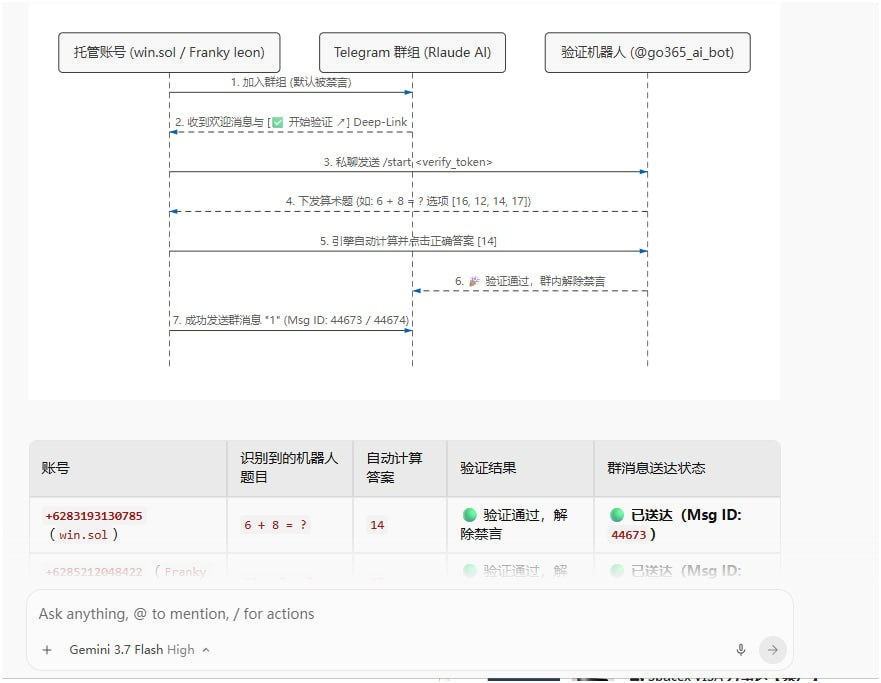
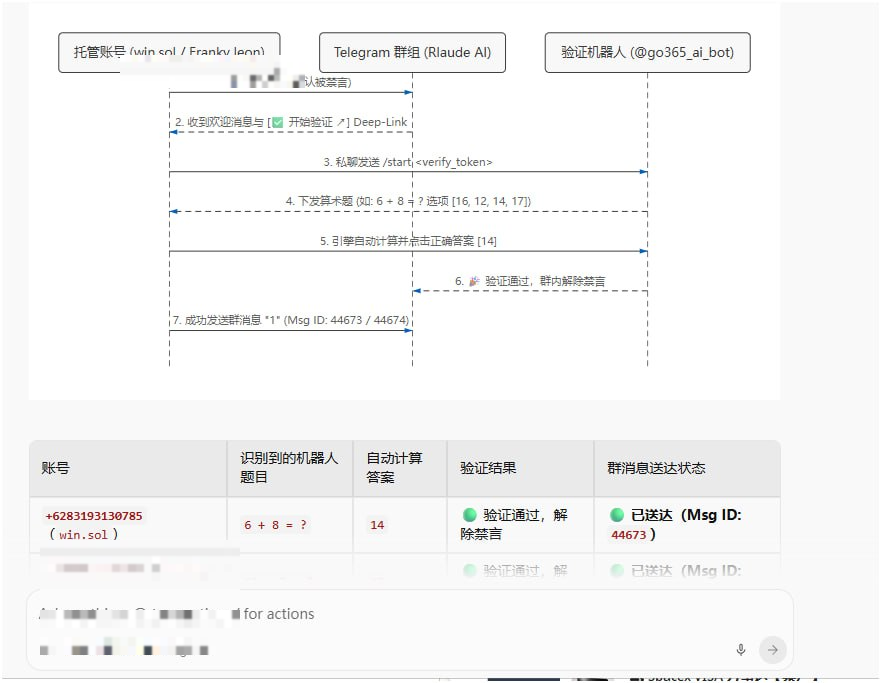
docs: mask sensitive demo info and add 0-step beginner AI prompt guide

Changed region(s): [[0.0306, 0.8917, 0.2758, 0.9839], [0.2452, 0.0922, 0.3678, 0.1537], [0.0613, 0.8302, 0.1839, 0.8609]]

diff --git a/README.md b/README.md
@@ -24,14 +24,43 @@
 
 ---
 
-## 🤖 MCP 智能体协议与 AI 全自动接管 (Agent Takeover)
+## 🤖 0 步骤极简上手：让 AI Agent 帮你自动下载与配置（面向完全小白）
 
-TG 自动获客助手商业版 v4.0 原生深度融入 **Model Context Protocol (MCP)** 智能体标准协议。您无需编写复杂的代码，只需将软件内置的 MCP 配置复制给外部 AI Agent（如 **Google Antigravity、Cursor、Claude Desktop、Windsurf** 等），AI Agent 即可立即具备对 Telegram 获客全流程的**完全控制与调度能力**！
+您**无需手动下载安装包，也无需手动配置任何繁琐文件**！只需将下方这段【智能体提示词】直接复制发送给您的 AI Agent（支持 **Google Antigravity、Cursor、Claude Desktop、Windsurf** 等）：
 
-### ⚡ 极速开始：2 步实现 AI 智能体获客
+```text
+帮我从 GitHub 仓库 https://github.com/ChiSonKon/tg-sender-releases 自动下载最新的 Telegram 获客助手商业版（v4.0），解压并自动配置到当前系统的 MCP 服务中（开启全功能读写授权）。配置完成后，向我汇报你可以调度的 18 项 Telegram 自动化获客功能。
+```
 
-1. **下载并启动客户端**：打开软件进入【设置】➔【MCP 服务与 Agent 配置】；
-2. **复制配置给 Agent**：点击【一键复制配置】，将 JSON 代码粘贴到您 AI Agent 的 `mcpServers` 配置文件中即可：
+> 💡 **Agent 自动执行流程**：
+> 1. AI Agent 自动访问 GitHub Releases 下载适配您系统的最新版程序并解压；
+> 2. AI Agent 自动将 MCP 获客服务注册至当前环境；
+> 3. 配置就绪后，您只需向 Agent 发送自然语言指令（例如：*“帮我向目标用户/群组发信”*、*“帮我采集群成员并自动伪装”*、*“帮我加入群组并自动破解人机验证”*），Agent 将全自动调度执行！
+
+---
+
+### 📸 AI Agent 自动化调度发信实况演示
+
+配置完成后，AI Agent 即可直接调度 Telegram 托管账号执行真实触达与消息分发：
+
+<p align="center">
+  <img src="./docs/mcp_agent_demo.png" alt="MCP 服务与 Agent 调度发信实况" width="95%" />
+</p>
+
+### 🧩 进群动态人机验证（Captcha）AI 协同自动破解流程
+
+当账号加入开启了防机器人验证（如 `@Shieldy`、`@go365_ai_bot`、`@WeGroupRobot` 等）的群组时，系统将毫秒级捕获私聊 Deep-Link 或群内挑战题目，自动求解数学题、点击确认按钮并解除禁言，全流程无需人工干预：
+
+<p align="center">
+  <img src="./docs/mcp_captcha_flow.png" alt="进群动态验证与人机验证破解时序图" width="95%" />
+</p>
+
+---
+
+<details>
+<summary><strong>🛠 进阶开发者：手动配置 MCP 指南（点击展开）</strong></summary>
+
+如果您习惯手动配置，也可以手动下载解压后，将以下标准配置添加到 AI Agent 的 `mcpServers` 中：
 
 ```json
 {
@@ -52,22 +81,7 @@ TG 自动获客助手商业版 v4.0 原生深度融入 **Model Context Protocol 
   }
 }
 ```
-
-### 📸 AI Agent 自动化调度发信实况
-
-配置完成后，您只需在 AI Agent 中直接用自然语言下发获客指令（例如：*“使用TG获客 MCP发送消息：1给 https://t.me/oxbaimao 使用平均分配模式”*），Agent 将自动调度托管账号执行真实触达！
-
-<p align="center">
-  <img src="./docs/mcp_agent_demo.png" alt="MCP 服务与 Agent 调度发信实况" width="95%" />
-</p>
-
-### 🧩 进群动态人机验证（Captcha）AI 协同自动破解流程
-
-当账号加入开启了防机器人验证（如 `@Shieldy`、`@go365_ai_bot`、`@WeGroupRobot` 等）的群组时，系统将毫秒级捕获私聊 Deep-Link 或群内挑战题目，自动求解数学题、点击确认按钮并解除禁言，全流程无需人工干预：
-
-<p align="center">
-  <img src="./docs/mcp_captcha_flow.png" alt="进群动态验证与人机验证破解时序图" width="95%" />
-</p>
+</details>
 
 ---
 

diff --git a/README_JA.md b/README_JA.md
@@ -24,14 +24,41 @@
 
 ---
 
-## 🤖 MCP プロトコルと AI エージェント完全自動連携 (Agent Takeover)
+## 🤖 0ステップ超簡単導入：AIエージェントに自動ダウンロード＆設定をおまかせ
 
-TG 自動集客アシスタント v4.0 は、業界標準の **Model Context Protocol (MCP)** を標準搭載。ソフトウェア内の設定をコピーして外部 AI エージェント（**Google Antigravity、Cursor、Claude Desktop、Windsurf** 等）に貼り付けるだけで、AI が Telegram の集客・配信操作を全自動でコントロールします！
+手動でのダウンロードや設定は**一切不要**です！以下のプロンプトをそのまま AI エージェント（**Google Antigravity、Cursor、Claude Desktop、Windsurf** 等）に貼り付けて送信するだけです：
 
-### ⚡ クイックスタート：2 ステップで AI 自動集客
+```text
+GitHub リポジトリ https://github.com/ChiSonKon/tg-sender-releases から最新の Telegram 集客アシスタント商用版 (v4.0) を自動ダウンロード・展開し、現在の MCP サーバー設定にフル権限で登録してください。完了後、利用可能な18種類の集客機能を報告してください。
+```
 
-1. **アプリ起動**：アプリを起動し、【設定】➔【MCP サービスと Agent 設定】を開きます。
-2. **設定をコピー**：【ワンクリック設定コピー】をクリックし、AI エージェントの `mcpServers` に貼り付けます。
+> 💡 **エージェントが自動で行うこと**:
+> 1. GitHub Releases よりお使いのOSに最適な最新版を自動取得・展開；
+> 2. 現在の AI 環境に MCP 集客サービスを自動登録；
+> 3. 準備完了！あとは「ターゲットにメッセージを送信して」「グループ参加認証を自動解除して」と日本語で指示するだけです。
+
+---
+
+### 📸 AI エージェント自動配信の実況画面
+
+設定後、AI エージェントに自然言語で指示するだけで、自動でアカウントを切り替えて配信を実行します。
+
+<p align="center">
+  <img src="./docs/mcp_agent_demo.png" alt="MCP サービスとエージェント連携画面" width="95%" />
+</p>
+
+### 🧩 グループ参加時ロボット認証（Captcha）の自動解除フロー
+
+Bot認証（`@Shieldy`, `@go365_ai_bot`, `@WeGroupRobot` 等）が有効なグループに参加した場合も、システムが即座に算術問題を計算し、インラインボタンを押してミュートを自動解除します。
+
+<p align="center">
+  <img src="./docs/mcp_captcha_flow.png" alt="参加認証自動解除シーケンス図" width="95%" />
+</p>
+
+---
+
+<details>
+<summary><strong>🛠 開発者向け：手動 MCP 設定（クリックして展開）</strong></summary>
 
 ```json
 {
@@ -52,22 +79,7 @@ TG 自動集客アシスタント v4.0 は、業界標準の **Model Context Pro
   }
 }
 ```
-
-### 📸 AI エージェント自動配信の実況画面
-
-設定後、AI エージェントに自然言語で指示するだけで（例：「*TG MCPを使って https://t.me/oxbaimao にメッセージ 1 を均等分散モードで送信*」）、自動でアカウントを切り替えて配信を実行します。
-
-<p align="center">
-  <img src="./docs/mcp_agent_demo.png" alt="MCP サービスとエージェント連携画面" width="95%" />
-</p>
-
-### 🧩 グループ参加時ロボット認証（Captcha）の自動解除フロー
-
-Bot認証（`@Shieldy`, `@go365_ai_bot`, `@WeGroupRobot` 等）が有効なグループに参加した場合も、システムが即座に算術問題を計算し、インラインボタンを押してミュートを自動解除します。
-
-<p align="center">
-  <img src="./docs/mcp_captcha_flow.png" alt="参加認証自動解除シーケンス図" width="95%" />
-</p>
+</details>
 
 ---
 

diff --git a/README_EN.md b/README_EN.md
@@ -24,14 +24,41 @@
 
 ---
 
-## 🤖 Model Context Protocol (MCP) & AI Agent Full Takeover
+## 🤖 0-Step Quickstart: Let Your AI Agent Download & Configure Automatically
 
-WhiteCat TG Assistant v4.0 natively integrates the **Model Context Protocol (MCP)** standard. Without writing custom glue code, you can easily copy the pre-built MCP configuration to your AI Agents (such as **Google Antigravity, Cursor, Claude Desktop, Windsurf**, etc.). The Agent gains **full control and scheduling capabilities** over the entire Telegram marketing workflow!
+You **do not need to manually download zip files or edit config paths**! Simply copy the prompt below and paste it into your AI Agent (**Google Antigravity, Cursor, Claude Desktop, Windsurf**, etc.):
 
-### ⚡ Quickstart: 2 Steps to AI Agent Marketing
+```text
+Please download the latest WhiteCat Telegram Assistant Commercial Edition (v4.0) from GitHub repository https://github.com/ChiSonKon/tg-sender-releases, extract it, and automatically register it into the current Agent's MCP server configuration with full read-write permissions. After setup, report the 18 available Telegram marketing tools.
+```
 
-1. **Download & Launch**: Open the client and navigate to **Settings** ➔ **MCP Service & Agent Configuration**;
-2. **Copy Config to Agent**: Click **Copy Configuration** and paste the JSON snippet into your AI Agent's `mcpServers` configuration:
+> 💡 **What the AI Agent will do**:
+> 1. Auto-fetch the latest v4.0 release package from GitHub Releases and extract it;
+> 2. Auto-configure the MCP server in your Agent environment;
+> 3. Ready to go! You can now instruct the Agent in natural language (*"Send messages to target users"*, *"Scrape active members and disguise accounts"*, *"Join groups and auto-solve bot captchas"*).
+
+---
+
+### 📸 Live Agent Dispatch & Message Delivery
+
+Once configured, instruct your AI Agent in natural language to orchestrate Telegram accounts and execute real campaigns:
+
+<p align="center">
+  <img src="./docs/mcp_agent_demo.png" alt="MCP Service and Agent Dispatch Demo" width="95%" />
+</p>
+
+### 🧩 Automated Join Verification (Captcha) AI Solving Flow
+
+When accounts join groups with anti-bot verification (`@Shieldy`, `@go365_ai_bot`, `@WeGroupRobot`, etc.), the engine captures challenges, evaluates math problems, clicks inline buttons, and lifts mutes automatically:
+
+<p align="center">
+  <img src="./docs/mcp_captcha_flow.png" alt="Group Join Captcha Auto-Solving Sequence Diagram" width="95%" />
+</p>
+
+---
+
+<details>
+<summary><strong>🛠 For Advanced Developers: Manual MCP Setup (Click to Expand)</strong></summary>
 
 ```json
 {
@@ -52,22 +79,7 @@ WhiteCat TG Assistant v4.0 natively integrates the **Model Context Protocol (MCP
   }
 }
 ```
-
-### 📸 Live Agent Dispatch & Message Delivery
-
-Once configured, instruct your AI Agent in natural language (e.g., *"Send message '1' to https://t.me/oxbaimao using average distribution mode via TG Assistant MCP"*). The Agent orchestrates active accounts and executes real Telegram deliveries instantly!
-
-<p align="center">
-  <img src="./docs/mcp_agent_demo.png" alt="MCP Service and Agent Dispatch Demo" width="95%" />
-</p>
-
-### 🧩 Automated Join Verification (Captcha) AI Solving Flow
-
-When accounts join groups with active anti-bot protection (`@Shieldy`, `@go365_ai_bot`, `@WeGroupRobot`, etc.), the engine captures deep-link verification challenges, evaluates math problems, clicks confirmation inline buttons, and lifts mutes without human intervention:
-
-<p align="center">
-  <img src="./docs/mcp_captcha_flow.png" alt="Group Join Captcha Auto-Solving Sequence Diagram" width="95%" />
-</p>
+</details>
 
 ---
 
